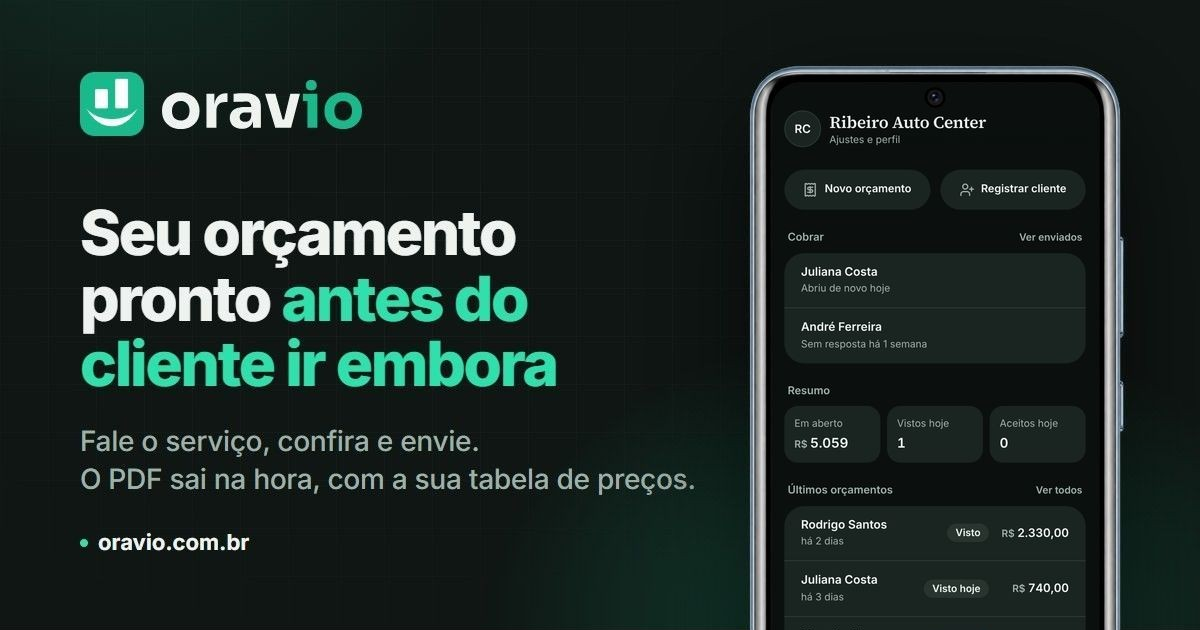
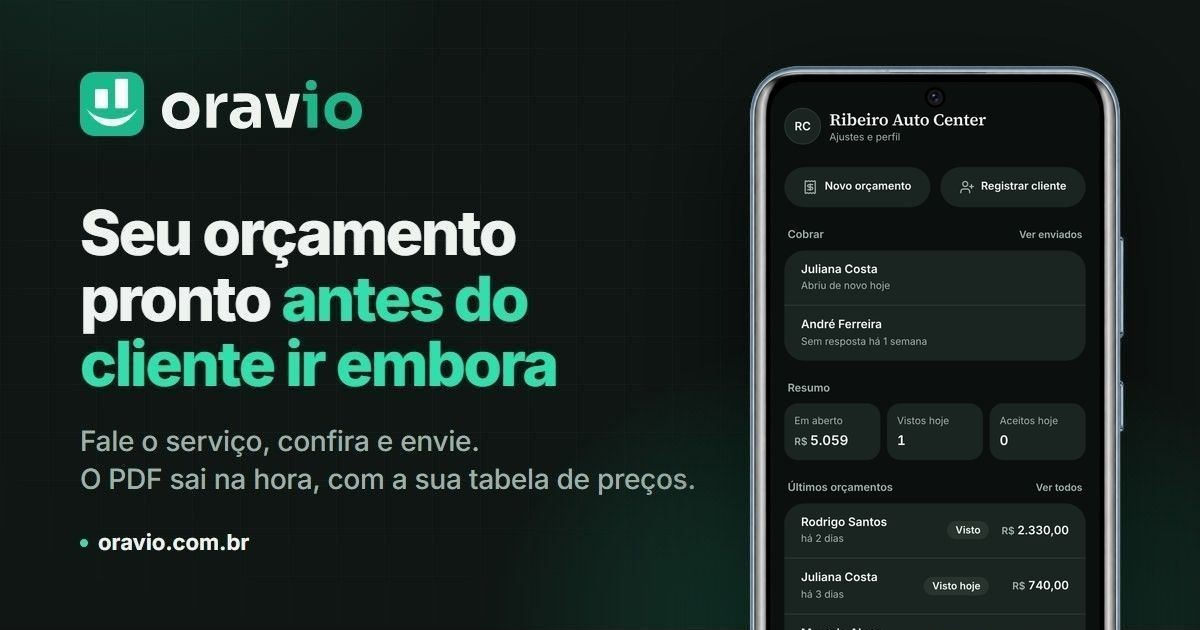
Landing: prints com a área de segurança do topo, como num celular real
A captura não tinha barra de status, então o nome do negócio ficava sob o furo
da câmera da moldura. Refeitos com 28 px de área segura e o topo sólido: itens
do laço descem 28 pt (--y 396/496/596), o aviso de aceite desce para 82 pt e a
capa do link volta sem o deslocamento.

Claude-Session: https://claude.ai/code/session_01R9HaANXDx3m32iE2aZMV2n

diff --git a/index.html b/index.html
@@ -151,9 +151,9 @@
               <img data-src="laco-confira-claro.webp" width="640" height="1387" decoding="async" alt="">
             </picture>
             <!-- Os três itens: recortes da MESMA Confira inteira do passo 2 (um download só). -->
-            <div class="laco-item i1" style="--y:368"><picture><source media="(prefers-color-scheme: dark)" data-srcset="tela-conferir-escuro.webp"><img data-src="tela-conferir-claro.webp" width="640" height="1387" decoding="async" alt=""></picture></div>
-            <div class="laco-item i2" style="--y:468"><picture><source media="(prefers-color-scheme: dark)" data-srcset="tela-conferir-escuro.webp"><img data-src="tela-conferir-claro.webp" width="640" height="1387" decoding="async" alt=""></picture></div>
-            <div class="laco-item i3" style="--y:568"><picture><source media="(prefers-color-scheme: dark)" data-srcset="tela-conferir-escuro.webp"><img data-src="tela-conferir-claro.webp" width="640" height="1387" decoding="async" alt=""></picture></div>
+            <div class="laco-item i1" style="--y:396"><picture><source media="(prefers-color-scheme: dark)" data-srcset="tela-conferir-escuro.webp"><img data-src="tela-conferir-claro.webp" width="640" height="1387" decoding="async" alt=""></picture></div>
+            <div class="laco-item i2" style="--y:496"><picture><source media="(prefers-color-scheme: dark)" data-srcset="tela-conferir-escuro.webp"><img data-src="tela-conferir-claro.webp" width="640" height="1387" decoding="async" alt=""></picture></div>
+            <div class="laco-item i3" style="--y:596"><picture><source media="(prefers-color-scheme: dark)" data-srcset="tela-conferir-escuro.webp"><img data-src="tela-conferir-claro.webp" width="640" height="1387" decoding="async" alt=""></picture></div>
             <span class="laco-total">R$ 1.919,90</span>
             <span class="laco-toque laco-toque-mic"></span>
             <span class="laco-toque laco-toque-salvar"></span>

diff --git a/estilo.css b/estilo.css
@@ -295,7 +295,7 @@
   .laco-toque-salvar{left:calc(326.4 * var(--pt));top:calc(731 * var(--pt))}
   /* O aviso tem o desenho da "boa notícia" da Início do app (components/inicio-mesa.tsx) e desce
      como notificação. Tudo em --pt: é parte da tela, cresce e encolhe com ela. */
-  .laco-aviso{position:absolute;left:calc(12 * var(--pt));right:calc(12 * var(--pt));top:calc(54 * var(--pt));display:flex;align-items:center;gap:calc(12 * var(--pt));padding:calc(12 * var(--pt)) calc(16 * var(--pt)) calc(12 * var(--pt)) calc(14 * var(--pt));background:var(--superficie);border:1px solid var(--line-suave);border-radius:calc(24 * var(--pt));box-shadow:var(--sombra-aviso);font-family:var(--font-sans);text-align:left}
+  .laco-aviso{position:absolute;left:calc(12 * var(--pt));right:calc(12 * var(--pt));top:calc(82 * var(--pt));display:flex;align-items:center;gap:calc(12 * var(--pt));padding:calc(12 * var(--pt)) calc(16 * var(--pt)) calc(12 * var(--pt)) calc(14 * var(--pt));background:var(--superficie);border:1px solid var(--line-suave);border-radius:calc(24 * var(--pt));box-shadow:var(--sombra-aviso);font-family:var(--font-sans);text-align:left}
   .laco-aviso .selo{flex:none;width:calc(36 * var(--pt));height:calc(36 * var(--pt));border-radius:50%;background:var(--green);color:var(--on-green);display:flex;align-items:center;justify-content:center}
   .laco-aviso .selo svg{width:58%;height:58%}
   .laco-aviso .selo path{stroke-dasharray:24;stroke-dashoffset:24}
